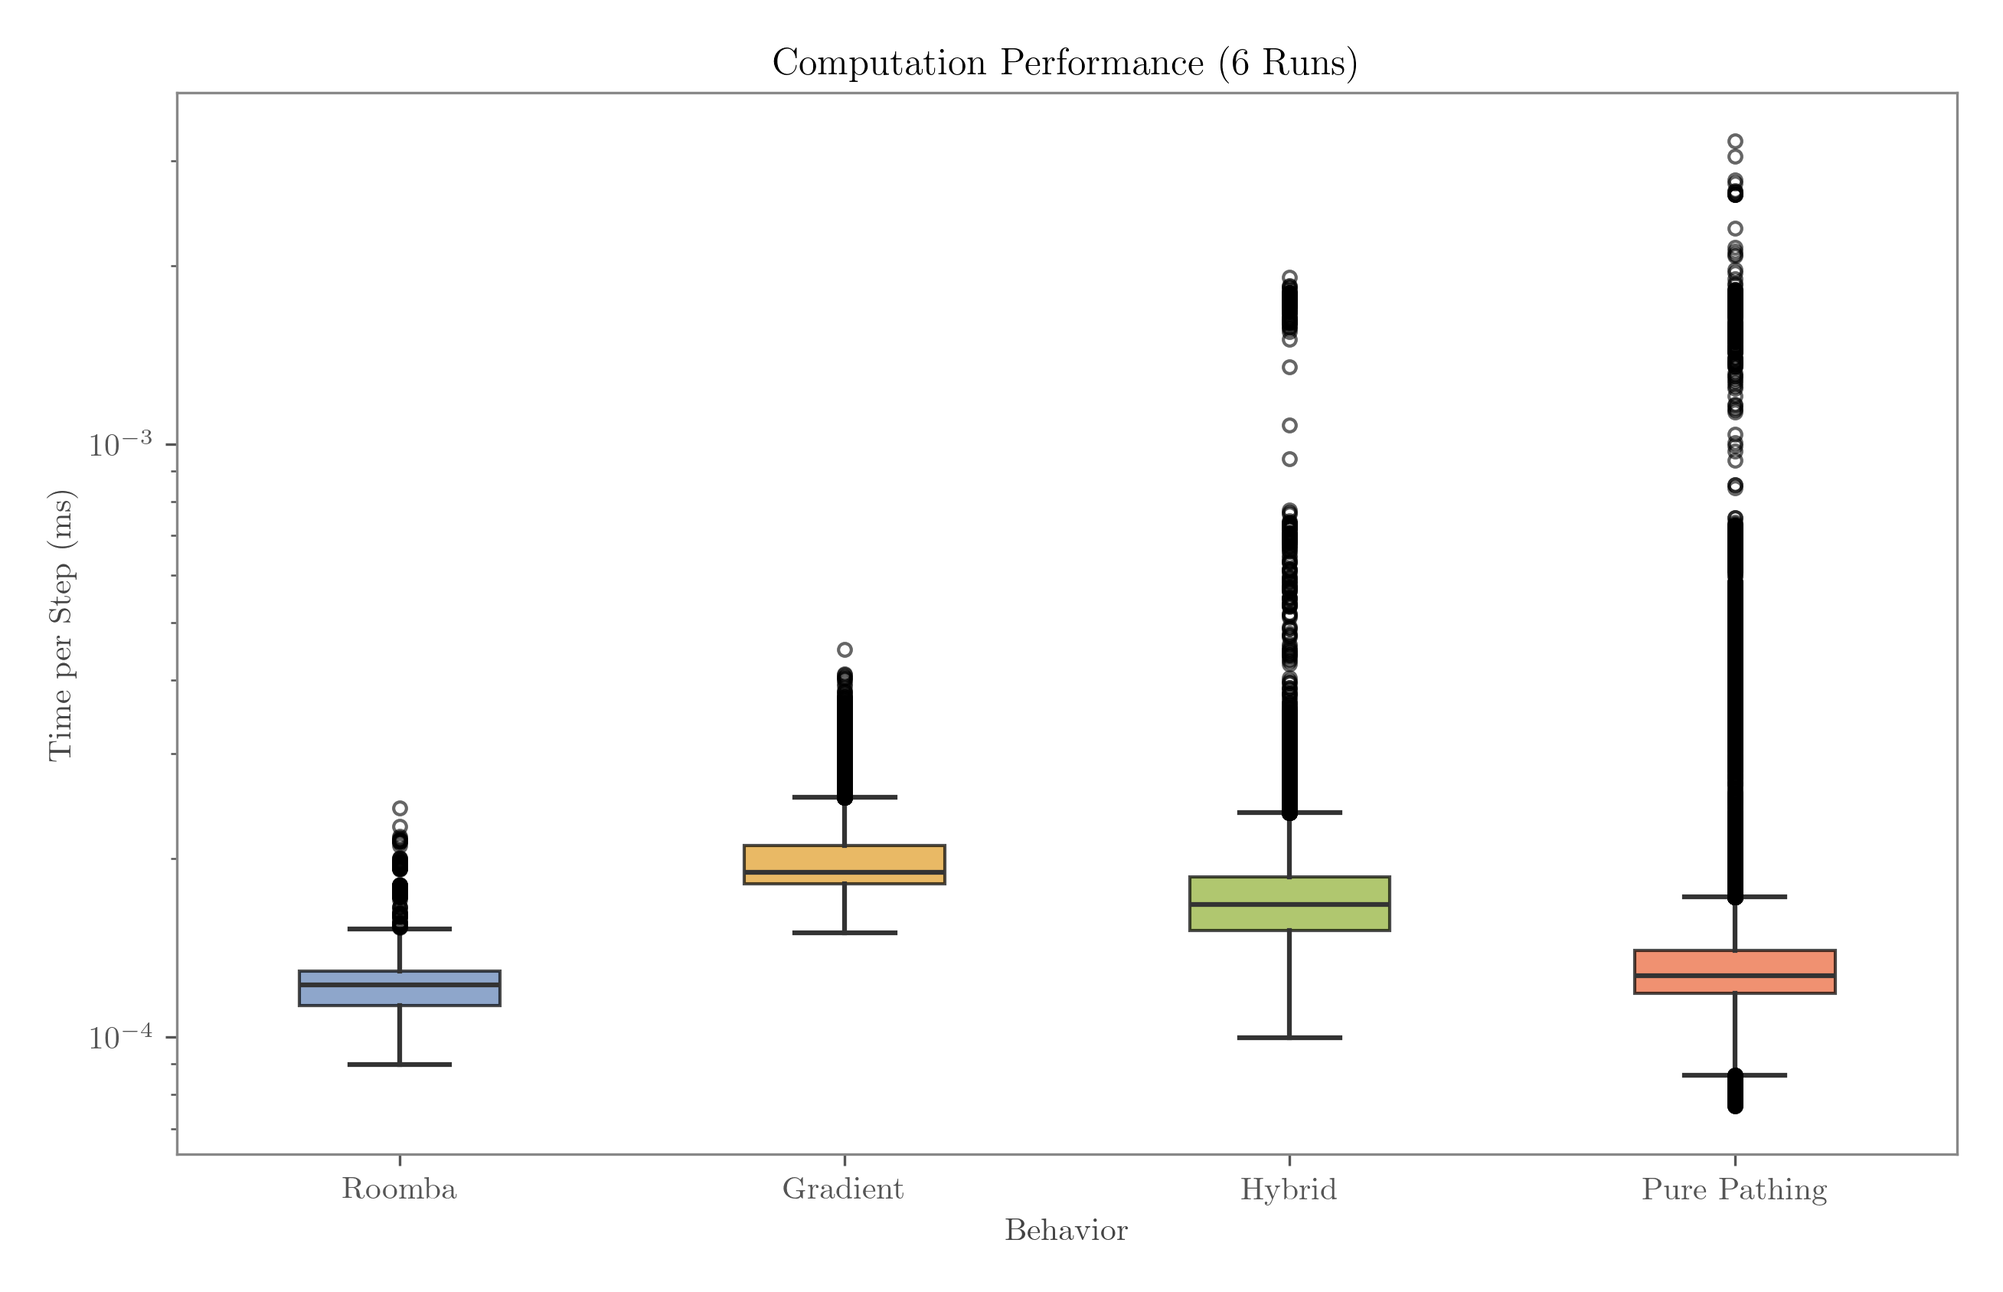
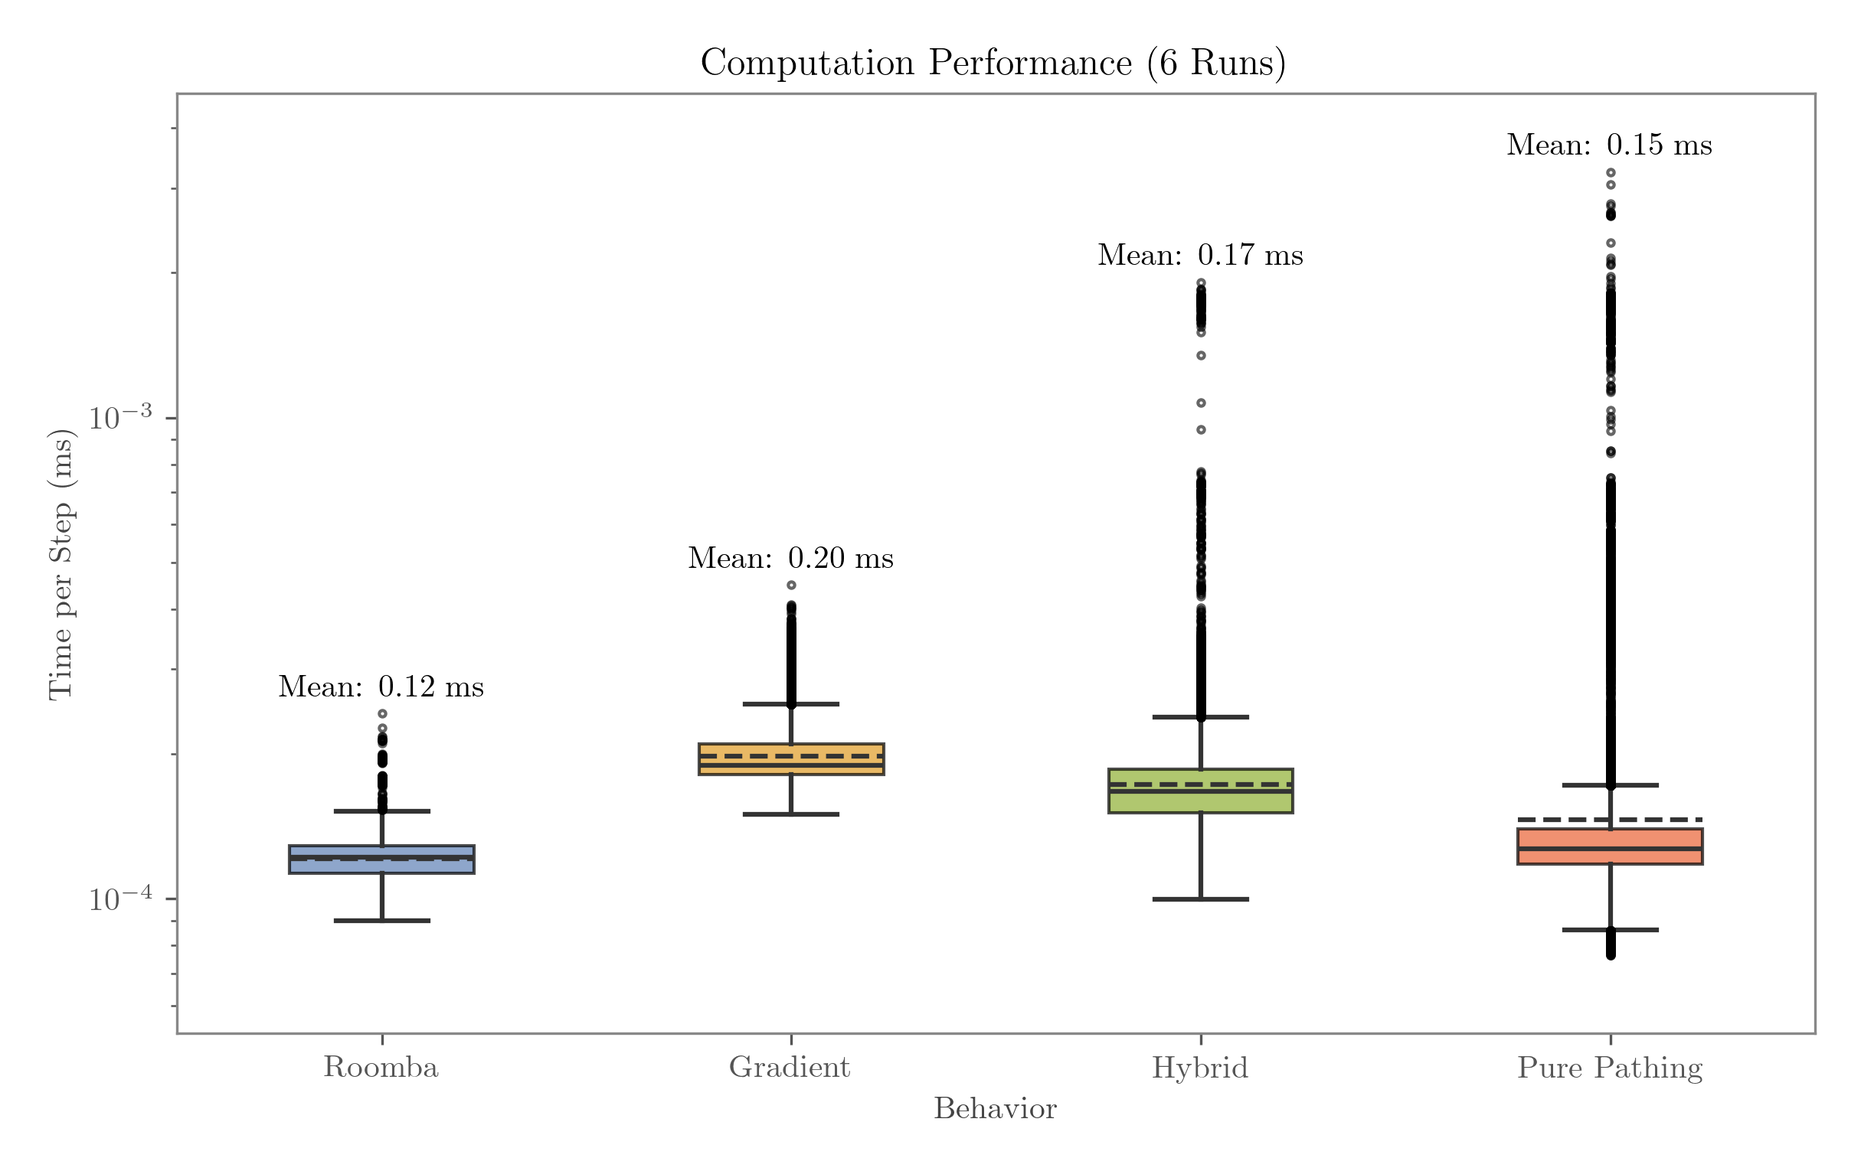
report: More results writing

diff --git a/report/sections/results.tex b/report/sections/results.tex
@@ -8,13 +8,13 @@ Additionally, the consistency between the two simulation environments—\texttt{
 
 
 \subsection{Simulator Consistency}
-A central goal of the dual-simulator framework is to ensure that algorithms implemented using the \texttt{botbrain} interface yield consistent behavior across both simulators. While Gazebo includes more realistic physics and non-deterministic behavior due to its time step and sensor noise, consistency in qualitative behavior (e.g., path shape, coverage trend) is still expected.
+A central goal of the dual-simulator framework is to ensure that algorithms implemented using the \texttt{botbrain} interface yield consistent behavior across both simulators. While Gazebo includes more realistic physics and non-deterministic behavior due to its time step and sensor noise, consistency in qualitative behavior (e.g., coverage trend) is still expected.
 
 
 \subsubsection{Basic Movement}
-To verify basic motion consistency, a simple circular movement behavior was executed in both simulators. As shown in \cref{fig:movement-consistency}, the resulting paths are visually similar, indicating that the velocity commands generated by the behavior logic are interpreted consistently across both environments.\\
+To verify basic motion consistency, a simple circular movement behavior was executed in both simulators. As shown in \cref{fig:movement-consistency}, the resulting paths are visually similar, indicating that the velocity commands are interpreted similarly in both environments.
 
-In the Gazebo simulator, the path deviates slightly from a perfect circle. This deviation is attributed to realistic physical effects such as wheel slippage and friction between the wheels and the ground. In contrast, the \texttt{simple\_sim} simulator assumes ideal motion without any loss due to slippage or friction, resulting in a more precise circular trajectory.\\
+In the Gazebo simulation, the path deviates slightly from a perfect circle. This deviation is attributed to realistic physical effects such as wheel slippage and friction between the wheels and the ground. In contrast, the \texttt{simple\_sim} simulator assumes ideal motion without any loss due to slippage or friction, resulting in a more precise circular trajectory.\\
 
 
 \begin{figure}[H]
@@ -29,7 +29,7 @@ In the Gazebo simulator, the path deviates slightly from a perfect circle. This 
     \includegraphics[width=\textwidth]{./figures/plots/consistency/ros-2-paths-(after-20s).png}
     \caption{ROS 2 Gazebo}
   \end{subfigure}
-  \caption{Path when running circular behavior in \texttt{simple\_sim} and ROS 2 Gazebo.}
+  \caption{Paths produced by a circular behavior in \texttt{simple\_sim} and ROS 2 Gazebo.}
   \label{fig:movement-consistency}
 \end{figure}
 
@@ -77,26 +77,34 @@ Deep reinforcement learning shows promise but requires further tuning for consis
 \subsection{Performance}
 A critical aspect of the performance of the search algorithms is computational and communication requirement for running the behaviors. 
 \subsubsection{Computation Time}
-% FIX: Mean line not working
-% TODO: Maybe change from ms pr step to percent comparison with roomba as baseline
-% TODO: State Average time for each algorithm
-\cref{fig:computation-performance} shows the computation time for each algorithm on the same map. As expected the Roomba algorithm is the fastest but the other is not quite as expected.
-The Pure Pathing algorithm is the next fastest, when not including the outliers. 
-This is due to the path following being very cheap and only the generation of the costmap, frontier exploration, and frontier evaluation being expensive. 
-The expensive operations does not occur frequently enough to significantly impact the average computation time.
+\Cref{fig:computation-performance} presents the computation time distributions for each algorithm running in the same environment.
+
+\begin{itemize}
+  \item The \textbf{Roomba} algorithm, being the simplest, exhibits the lowest and most consistent computation time.
+\item The \textbf{Pure Pathing} algorithm also performs efficiently on average, though it shows more outliers due to the occasional expensive operations—namely, costmap generation, frontier exploration/evaluation, and path planning—which are not triggered at every time step.
+\item The \textbf{Gradient} method is more consistent but slower overall, as gradient recalculation occurs at each step.
+\item The \textbf{Hybrid} method was expected to fall between Pure Pathing and Gradient in terms of complexity, and this assumption holds based on the observed data.
+\end{itemize}
+
 \begin{figure}[H]
     \begin{center}
-        \includegraphics[width=0.75\textwidth]{./figures/plots/computation-performance-(6-runs).png}
+        \includegraphics[width=0.95\textwidth]{./figures/plots/computation-performance-(6-runs).png}
     \end{center}
-    \caption{Computation time box plot for each algorithm on the same map.}
+    \caption{Computation time (box plot) for each search algorithm in the same map environment.}
     \label{fig:computation-performance}
 \end{figure}
 
 \subsubsection{Communication {\color{red}Load}}
-\begin{figure}[H]
-    \begin{center}
-        \includegraphics[width=0.75\textwidth]{./figures/plots/bytes.png}
-    \end{center}
-    \caption{Message size boxplot for each algorithm on the same map.}
-    \label{fig:computation-performance}
-\end{figure}
+The only messages transmitted during operation are updates to the search grid, which are sent whenever a robot’s internal search grid is modified. From these updates, other robots can synchronize their local search grids and also infer the position of the robot that originated the message.
+
+Each message has a fixed size of 26 bytes. The \texttt{botbrain} library includes a configurable parameter that controls the broadcast frequency, which is set to \SI{10}{Hz} by default. This corresponds to one message every \SI{100}{ms}, resulting in approximately \SI{260}{bytes/sec} of outbound communication per robot.
+
+When compared to the communication technologies considered for real-world deployment (see \cref{sub:communication-methods}), this bandwidth requirement is negligible for most methods, including Wi-Fi, Zigbee, and cellular. However, it may exceed practical limits for LoRa, particularly in multi-robot systems or in scenarios requiring higher message frequencies.
+
+If LoRa is to be considered for deployment, further message compression, reduced transmission frequency, or more aggressive filtering strategies would be necessary to meet the bandwidth constraints.
+
+% TODO: Talk about security. This could make the messages bigger or is this assumed to be handled by the communication protocol?
+
+\subsection{Object Search Performance}
+% TODO: How does coverage correlate with the coverage?
+

diff --git a/report/sections/further-development.tex b/report/sections/further-development.tex
@@ -39,16 +39,29 @@ Output is published to \texttt{/cmd\_vel}, which controls linear and angular vel
 \subsubsection{Using the Rust Library}
 For systems that do not support ROS 2, the behavior algorithms can be used via the standalone \texttt{botbrain} Rust library. This interface allows for integration in embedded or custom platforms by directly feeding sensor data to \texttt{botbrain}, receiving control outputs and handling communication between robots. This modular design is critical in swarm systems, where individual robots should be cheep and replalable.
 
-\subsubsection{Communication Considerations}\label{sub:communication}
-In simulation, communication is assumed to be instantaneous and lossless. In real-world settings, this is not the case. Communication technologies under consideration include:
+\subsubsection{Communication Considerations}
+\label{sub:communication-methods}
 
+In simulation, communication is assumed to be instantaneous and lossless. However, in real-world deployments, communication introduces latency, potential packet loss, and limited bandwidth. Selecting an appropriate communication technology is critical for maintaining coordinated behavior among robots. The following technologies are considered:
+
+% TODO: Find cites for this
 \begin{itemize}
-  \item \textbf{Wi-Fi}: High bandwidth but susceptible to interference and limited range.
-  \item \textbf{Zigbee}: Suitable for low-bandwidth mesh networks but limited in data rate.
-  \item \textbf{LoRa}: Extremely long range but low throughput; suitable for infrequent updates.
+  \item \textbf{Wi-Fi (802.11n/ac)}: Offers high bandwidth, typically between \SI{50}{Mbps} and \SI{600}{Mbps} under ideal conditions. It is widely supported by commercial robotics platforms but is susceptible to interference and has a limited effective range (up to \SI{100}{m} indoors, \SI{300}{m} outdoors).
+  \item \textbf{Cellular (4G/5G)}: Provides broad coverage and high bandwidth. 4G networks offer download speeds up to \SI{100}{Mbps}, while 5G can exceed \SI{1}{Gbps} in ideal conditions. Cellular networks are suitable for large-scale outdoor deployments but may introduce variable latency and incur data costs.
+  \item \textbf{Zigbee}: Designed for low-power, low-data-rate mesh networking. Typical throughput is around \SI{250}{kbps}, with an effective range of up to \SI{100}{m} line-of-sight. Zigbee is well-suited for structured indoor environments with modest communication demands.
+  \item \textbf{LoRa (Long Range)}: Offers long-range communication (up to \SI{10}{km} in rural settings) with extremely low data rates, typically between \SI{0.3}{kbps} and \SI{50}{kbps}. It is appropriate for sparse, low-frequency messaging where continuous data exchange is not required.
 \end{itemize}
 
-The system assumes a broadcast model where each robot shares observations over a shared channel. Messages are already serialized in a compact binary format. If communication becomes a bottleneck, strategies such as message prioritization, differential updates, or lossy compression may be necessary.
+The system currently employs a broadcast communication model, where each robot periodically shares its observations over a shared channel. Messages are serialized into a compact binary format to reduce transmission overhead.
+
+If communication bandwidth becomes a limiting factor, several strategies can be employed:
+\begin{itemize}
+  \item \textbf{Message prioritization}: Transmitting only high-value or time-critical data.
+  \item \textbf{Differential updates}: Sending only changes since the last transmission instead of full state data.
+  \item \textbf{Lossy compression}: Reducing data precision or selectively discarding less important information.
+\end{itemize}
+
+Future work may include implementing adaptive communication policies, allowing robots to dynamically adjust their broadcast frequency and data payload based on network conditions and mission priorities.
 
 \subsection{Advancing Deep Reinforcement Learning}
 A basic model has been developed as a proof of concept. {\color{red}It is limited by the hardware but with better GPU\'s more advanced models can be trained.}
@@ -70,14 +83,14 @@ Incorporating these techniques could help develop policies that are not only mor
 \subsubsection{Neuroevolution of Augmenting Topologies (NEAT)}
 Designing an optimal neural network architecture for a DQN agent remains a non-trivial task. The architecture can greatly affect both convergence speed and final performance.\\
 
-Neuroevolution of Augmenting Topologies (NEAT) \cite{neat} is a genetic algorithm designed to evolve both the topology and weights of neural networks. Each candidate solution, or genome, is represented as a graph of neurons and connections. Networks are evaluated based on a fitness function, and mutation/crossover operations allow the population to explore a diverse architecture space.\\
+Neuroevolution of Augmenting Topologies \cite{neat} is a genetic algorithm designed to evolve both the topology and weights of neural networks. Each candidate solution, or genome, is represented as a graph of neurons and connections. Networks are evaluated based on a fitness function, and mutation/crossover operations allow the population to explore a diverse architecture space.\\
 
 NEAT offers the advantage of automatic architecture discovery, potentially outperforming manually designed networks. However, it is computationally intensive and typically requires more training cycles than DQN.
 
 A hybrid approach could involve using NEAT to discover promising network architectures, which are then fine-tuned using standard DQN training. This could accelerate learning and yield more effective policies.
 
 \subsubsection{Proximal Policy Optimization (PPO)}
-Another promising direction for advancing the reinforcement learning is the use of Proximal Policy Optimization (PPO) \cite{ppo}. PPO is unlike DQN an on-policy reinforcement learning algorithm that has demonstrated strong empirical performance across a range of robotic control tasks.
+Another promising direction for advancing the reinforcement learning is the use of Proximal Policy Optimization \cite{ppo}. PPO is unlike DQN an on-policy reinforcement learning algorithm that has demonstrated strong empirical performance across a range of robotic control tasks.
 
 Unlike DQN, which is value-based and limited to discrete action spaces, PPO belongs to the family of policy gradient methods and naturally supports continuous action spaces. This makes it particularly well-suited for real-world robotics applications, where actions such as velocity commands are typically continuous.
 

diff --git a/botplot/src/botplot/__init__.py b/botplot/src/botplot/__init__.py
@@ -352,7 +352,7 @@ class ResultCollection:
     style: dict = {}
 
     def __init__(
-            self, name: str, results: list[Result], use_cache: bool = True, style: dict = {}
+        self, name: str, results: list[Result], use_cache: bool = True, style: dict = {}
     ) -> None:
         self.name = name
         self.results = results
@@ -361,7 +361,12 @@ class ResultCollection:
 
     def hash(self) -> str:
         """Returns a hash of the results in this collection."""
-        s = ":".join([f"{r.dataframe_file}+{os.path.getmtime(r.dataframe_file)}" for r in self.results])
+        s = ":".join(
+            [
+                f"{r.dataframe_file}+{os.path.getmtime(r.dataframe_file)}"
+                for r in self.results
+            ]
+        )
         return hashlib.sha256(s.encode()).hexdigest()
 
     def populate_dfs(self, use_cache: bool):
@@ -456,8 +461,9 @@ class ResultCollection:
                 style[k] = v
         return style
 
-
-    def plot(self, col: str, ax, spread=True, color=None, label: bool = True, multiply = 1):
+    def plot(
+        self, col: str, ax, spread=True, color=None, label: bool = True, multiply=1
+    ):
         avg = self.avg_df()
         std = self.std_df()
 
@@ -467,7 +473,11 @@ class ResultCollection:
         if label:
             l = self.name
 
-        (line,) = ax.plot(time, avg[col] * multiply, **self.get_style(linewidth=2, label=l, color=color))
+        (line,) = ax.plot(
+            time,
+            avg[col] * multiply,
+            **self.get_style(linewidth=2, label=l, color=color),
+        )
         if spread:
             color = line.get_color()
             top = (avg[col] + std[col]) * multiply
@@ -748,9 +758,7 @@ def place_robots(world: str | World, n: int) -> list[Robot]:
     return data["robots"]
 
 
-def plot_world(
-    ax, world: World, title: str, borders: bool, plot_title: bool
-) -> None:
+def plot_world(ax, world: World, title: str, borders: bool, plot_title: bool) -> None:
     if title and plot_title:
         ax.set_title(title, fontsize=16)
 
@@ -776,6 +784,7 @@ def plot_world(
     world_img = world.img()
     ax.imshow(world_img, extent=[xmin, xmax, ymin, ymax], origin="lower", zorder=0)
 
+
 def save_figure(fig, output_file: str):
     name = os.path.basename(output_file).replace(" ", "-").lower()
     dir = os.path.dirname(output_file)
@@ -796,7 +805,6 @@ def plot_coverage(
     ax=None,
     figsize: tuple[int, int] = (9, 5),
 ) -> str:
-
     fig = None
     if not ax:
         fig, ax = plt.subplots(figsize=figsize)
@@ -809,7 +817,10 @@ def plot_coverage(
     if isinstance(results, list) and all(
         isinstance(item, ResultCollection) for item in results
     ):
-        lines = [(c, c.plot("coverage", ax, label=False, multiply=100, spread=spread)) for c in results]
+        lines = [
+            (c, c.plot("coverage", ax, label=False, multiply=100, spread=spread))
+            for c in results
+        ]
         for c, line in lines:
             c.plot("coverage", ax, color=line.get_color(), spread=False, multiply=100)
 
@@ -836,7 +847,7 @@ def plot_coverage(
 
 def plot_avg_coverage_diff(results: list[tuple[pl.DataFrame, str]], title: str) -> str:
     file = os.path.join(plot_dir(), f"{title}.png")
-    fig, ax = plt.subplots(figsize=(7,4))
+    fig, ax = plt.subplots(figsize=(7, 4))
     ax.axhline(0, color="gray", linestyle="--", linewidth=1)
     for df, behavior in results:
         ax.plot(df["time"], df["diff"], label=behavior)
@@ -1097,7 +1108,7 @@ def plot_boxplot(
     results: ResultCollection | list[ResultCollection],
     column: str,
     title: str,
-    figsize: tuple = (10, 6),
+    figsize: tuple = (8, 5),
 ) -> str:
     """
     Create a boxplot comparing a specific column across ResultCollections.
@@ -1122,9 +1133,10 @@ def plot_boxplot(
 
     data = []
     labels = []
+    means = []
 
     for res_collection in results:
-        collection_data: list[pl.pl.DataFrame] = []
+        collection_data = []
         for result in res_collection.results:
             df = result.df()
             if column in df.columns:
@@ -1138,10 +1150,17 @@ def plot_boxplot(
         if collection_data:
             data.append(collection_data)
             labels.append(res_collection.name.split("-")[0])
+            means.append(np.mean(collection_data))
+
+    # Normalize data relative to the mean of the first collection
+    # if means:
+    #     baseline = means[0]
+    #     data = [[v / baseline for v in d] for d in data]
+    #     means = [m / baseline for m in means]
 
     if data:
         # Create boxplot with colors from the color scheme
-        bp = ax.boxplot(data, patch_artist=True, meanline=True)
+        bp = ax.boxplot(data, patch_artist=True, meanline=True, showmeans=True)
 
         # Apply colors to each box
         for i, patch in enumerate(bp["boxes"]):
@@ -1149,20 +1168,32 @@ def plot_boxplot(
             patch.set_alpha(0.7)
 
         # Style the other elements
-        for element in bp["whiskers"] + bp["caps"] + bp["medians"]:
+        for element in bp["whiskers"] + bp["caps"] + bp["medians"] + bp["means"]:
             element.set_color("#333333")
             element.set_linewidth(1.5)
 
         for flier in bp["fliers"]:
             flier.set_marker("o")
-            flier.set_markersize(4)
+            flier.set_markersize(2)
             flier.set_alpha(0.6)
+
+        for i, mean in enumerate(means):
+            ax.text(
+                i + 1,
+                max(data[i]) * 1.05,
+                f"Mean: {mean * 1000:.2f} ms",
+                ha="center",
+                va="bottom",
+                fontsize=10,
+                color="black",
+            )
 
         ax.set_ylabel("Time per Step (ms)")
         ax.set_xlabel("Behavior")
         ax.set_title(title)
         ax.set_xticklabels(labels)
         ax.set_yscale("log")
+        ax.margins(0.1)
 
     return save_figure(fig, file)
 
@@ -1201,7 +1232,7 @@ def plot_paths(
     borders=False,
     plot_title: bool = False,
     time_label: bool = True,
-    ax = None,
+    ax=None,
 ) -> list[str]:
     df = result.df()
     desc = result.desc()
